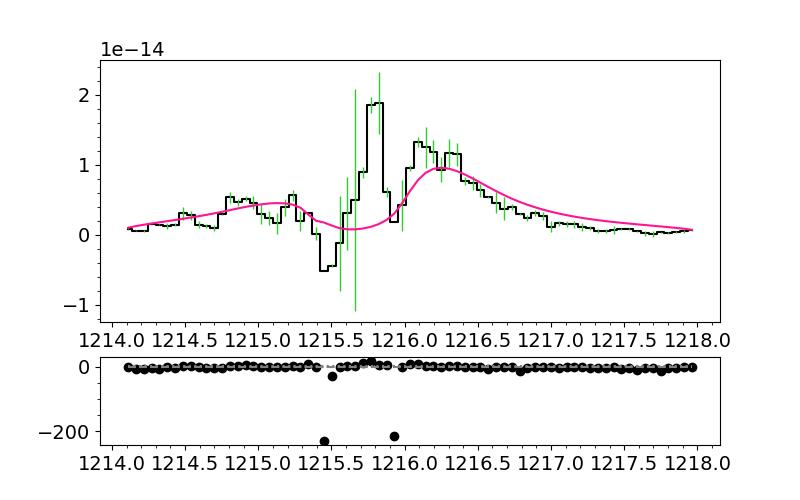
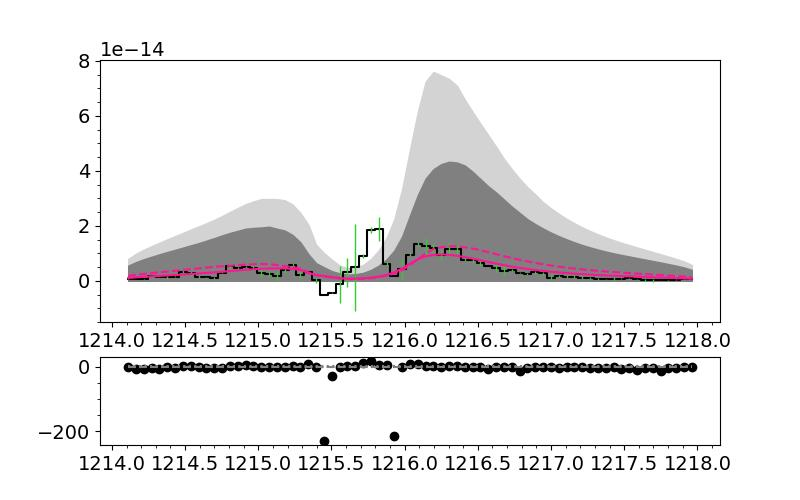
final plots

diff --git a/src/lyapy/example_start_file.py b/src/lyapy/example_start_file.py
@@ -38,7 +38,7 @@ nruns = 1# change me next
 # if True: starts the fit from scratch. if False: picks up where the fit left off.
 fresh_start = True
 # if True: does a long error estimation. Don't set to True until your fit has converged and you're satisfied with it.
-perform_error = False 
+perform_error = True 
 # if True: allows the user to mask out part(s) of their data from being evaluated by the log probability function (e.g., airglow)
 mask_data = True
 
@@ -394,7 +394,7 @@ line_percentiles_to_store_dic, reconstructed_fluxes_dic = profile_plot(wave_to_f
     
 """
 if perform_error:
-    filename="TOI-1212_MCMC_results.csv"  # EDIT ME FOR EACH FIT!
+    filename="TOI-1201_MCMC_results.csv"  # EDIT ME FOR EACH FIT!
 
     line_names = ['lya']
     array_per_line_names = ['model', 'model unconvolved', 'intrinsic', 'intrinsic unconvolved', 'ism', 'ism unconvolved', 
@@ -492,6 +492,8 @@ if perform_error:
     ax.set_ylabel('Flux Density (erg cm$^{-2}$ s$^{-1}$ \AA$^{-1}$)',fontsize=18)
 
     ax.minorticks_on()
+
+    plt.savefig("output2.jpg")
 
 
 print(f"Total time: {time.time() - start_time}")
